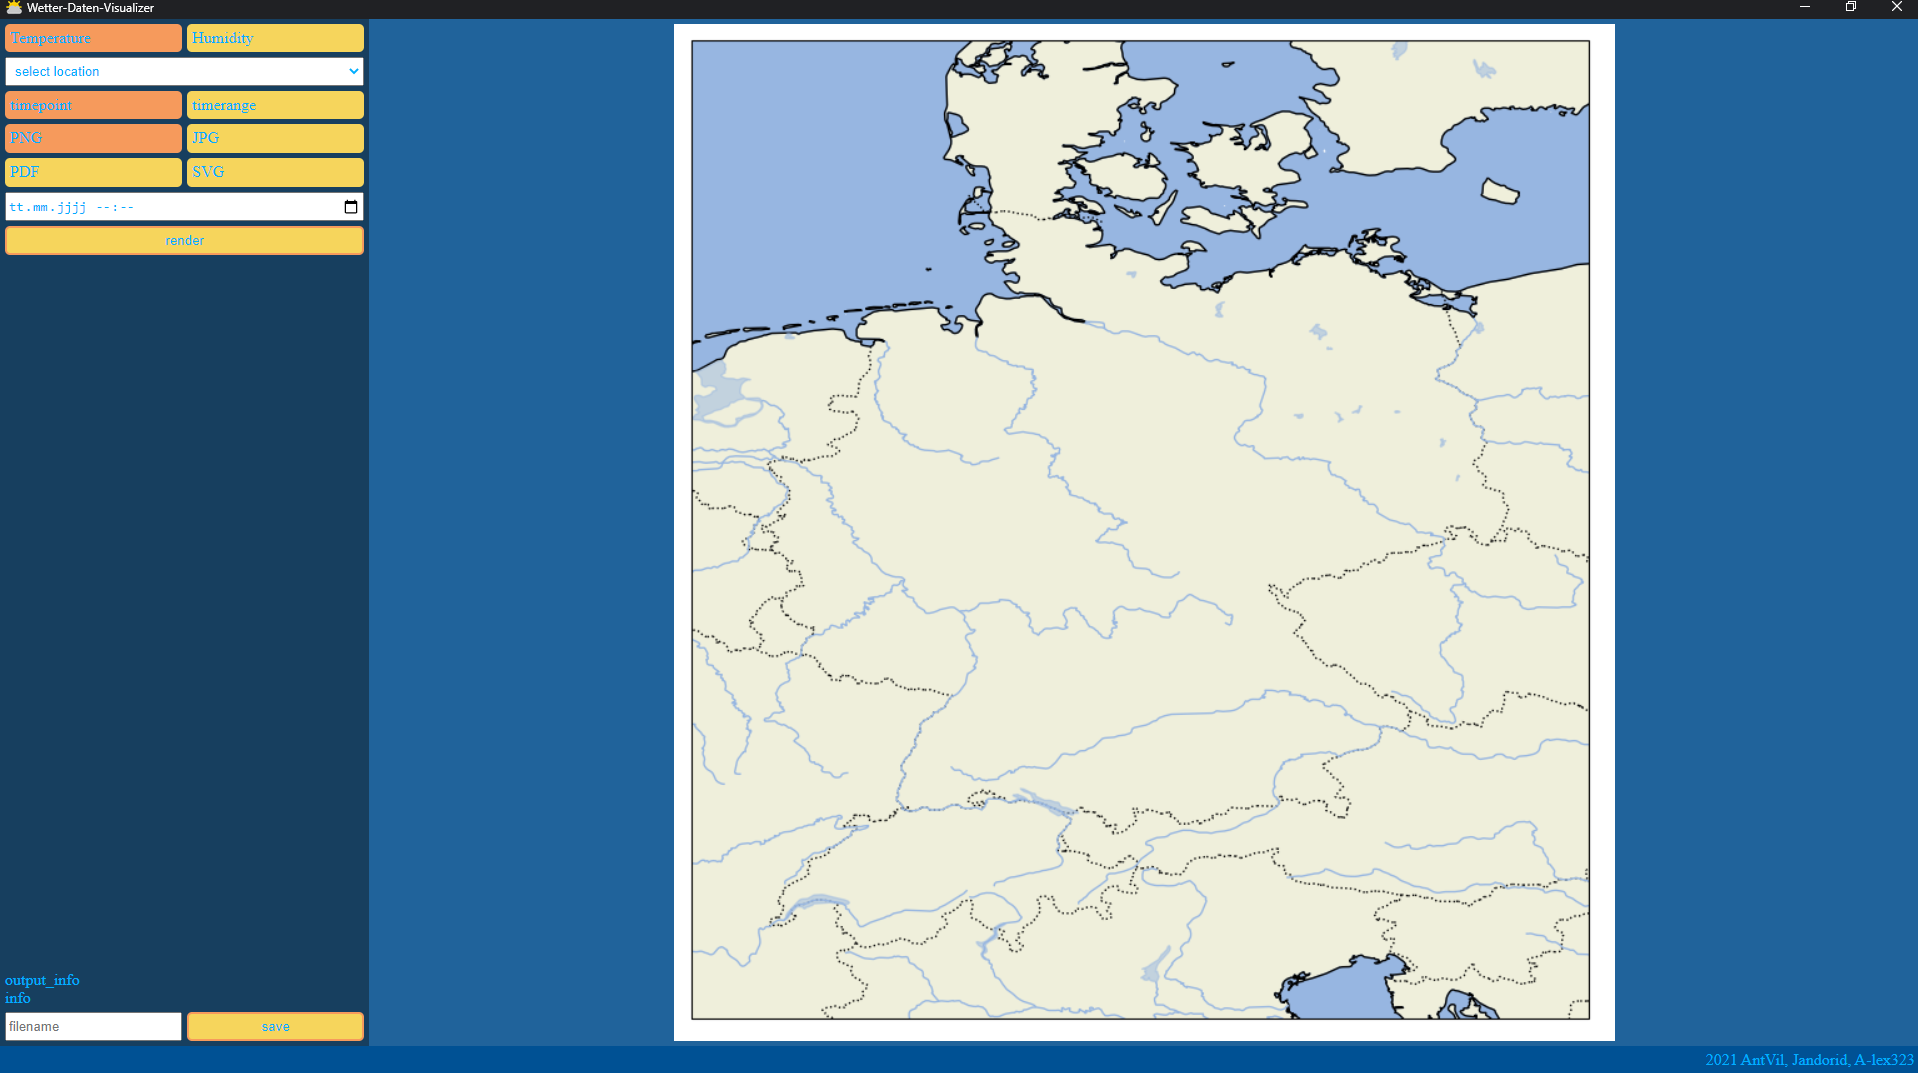
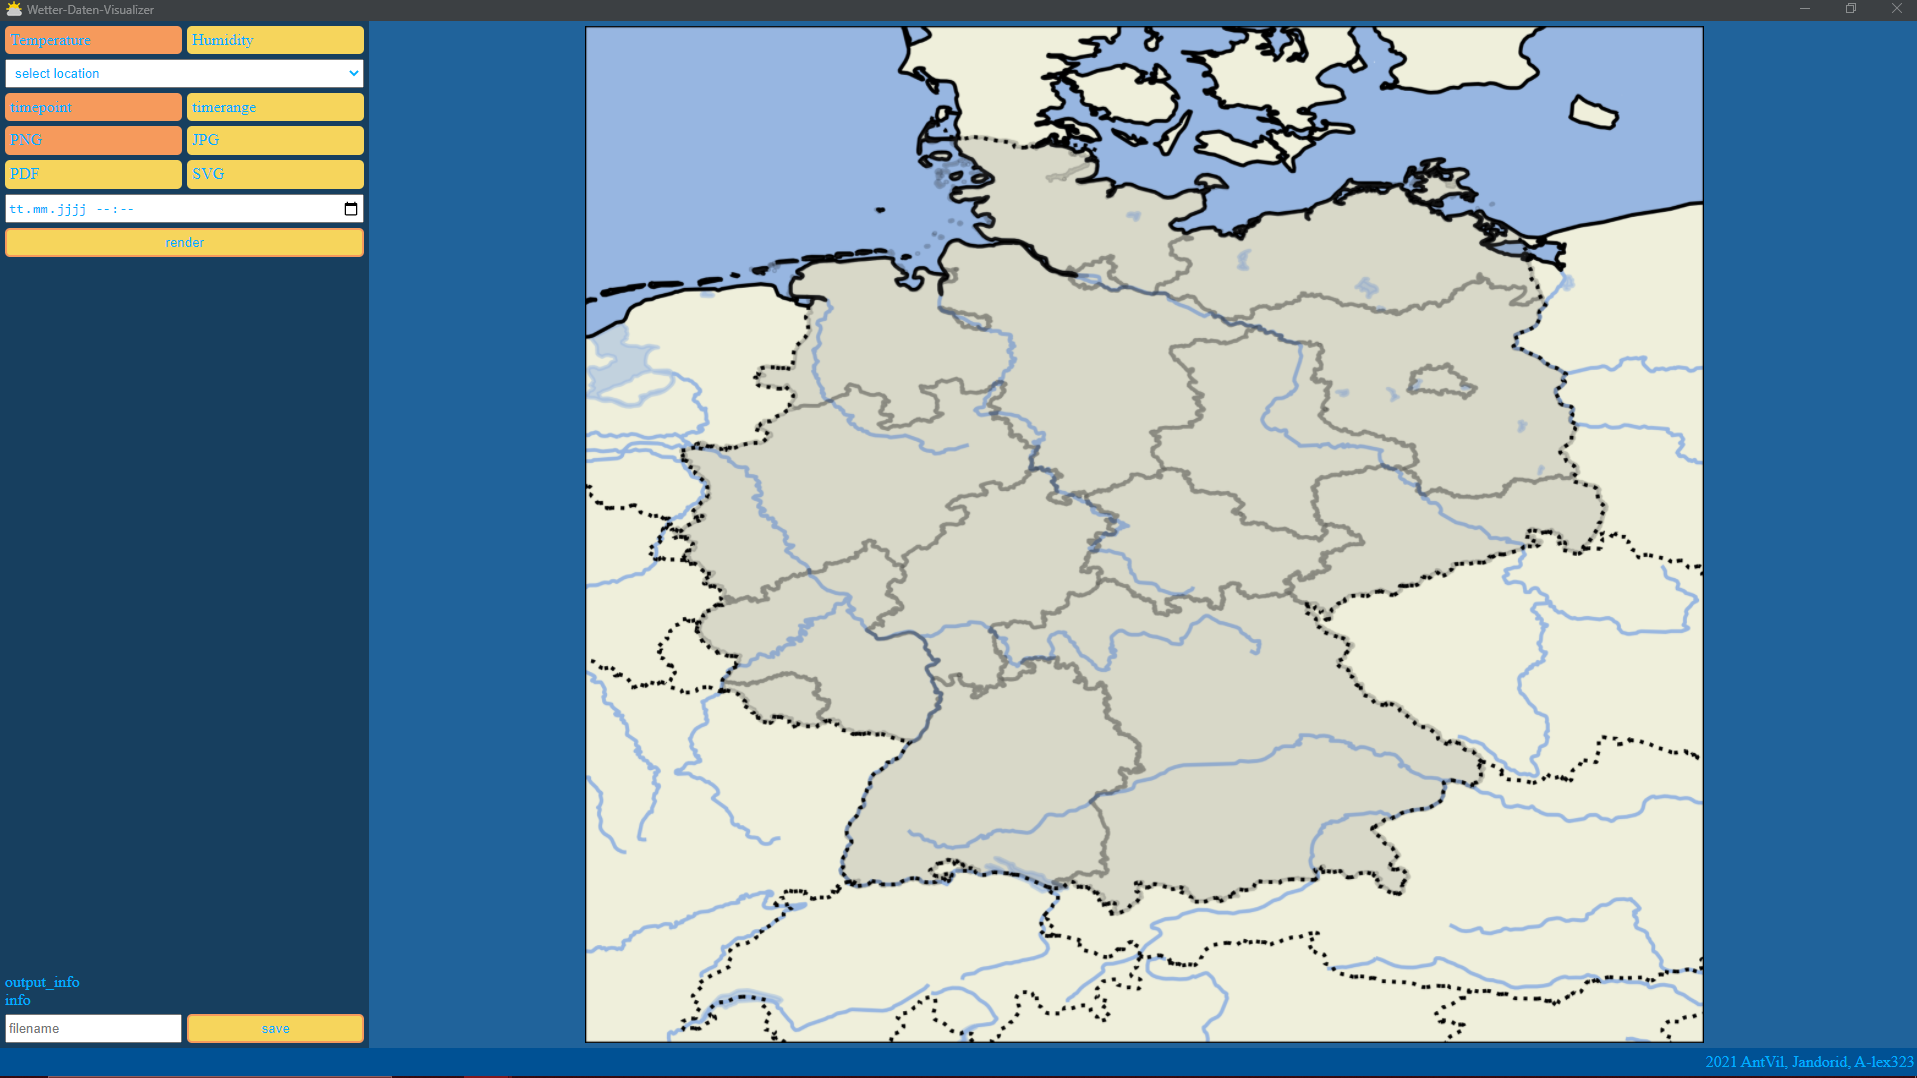
doc

Changed region(s): [[0.0, 0.0, 1.0, 1.0]]

diff --git a/doc/doc.md b/doc/doc.md
@@ -23,8 +23,12 @@ To create plots of maps [matplotlib](https://matplotlib.org/) and [Cartopy](http
 <br>![](./images/cartopy_map.png)<br>
 The map can be cropped to only display germany:
 <br>![](./images/cartopy_germany.png)<br>
-or any part of germany:
-<br>![image of folder with images here!]()<br>
+By downloading the shapefiles of administrative areas in germany from [GADM](https://gadm.org/download_country_v3.html), more context can be added to the plots:
+<br>![](./images/germany_administrative_areas.png)<br>
+Since the license of `GADM` doesn't permit further distribution the file [shapes.py](../src/shapes.py) downloads and saves the shapefiles locally.
+
+The plot can be further cropped to specific locations:
+<br>![](./images/germany_administrative_areas_folder.png)<br>
 Using [dwd.py](../src/dwd.py) we can get the coordinates of the stations and plot them on the map:
 <br>![](./images/stations.png)<br>
 The subpackage [matplotlib.tri](https://matplotlib.org/stable/gallery/images_contours_and_fields/irregulardatagrid.html) makes it possible to interpolate values between the stations, like temperature:
@@ -42,7 +46,7 @@ The file [image_to_video.py](../src/image_to_video.py) makes this conversion.
 
 ### The Interface
 Using [excalidraw](https://excalidraw.com/) a basic wireframe of the interface can be created:
-<br>![](./images/interface-mockup.png)<br>
+<br>![](./images/interface_mockup.png)<br>
 
 The logo of this project was created using [gimp](https://www.gimp.org/):
 <br>![](./images/gimp_logo.png)<br>
